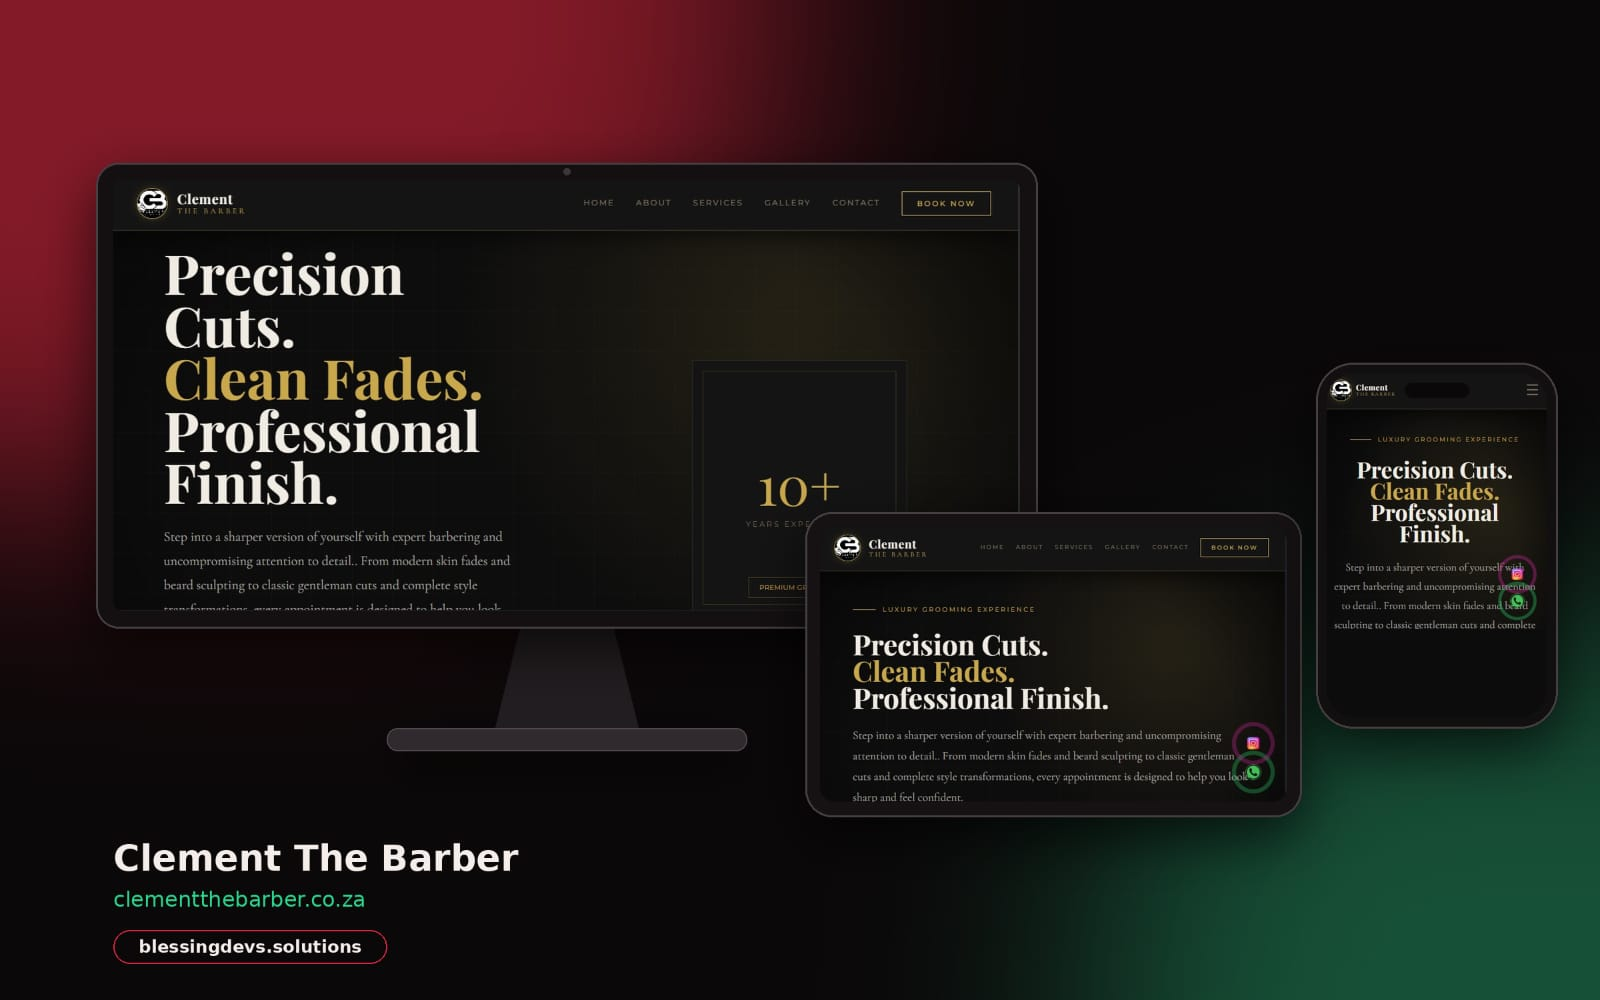
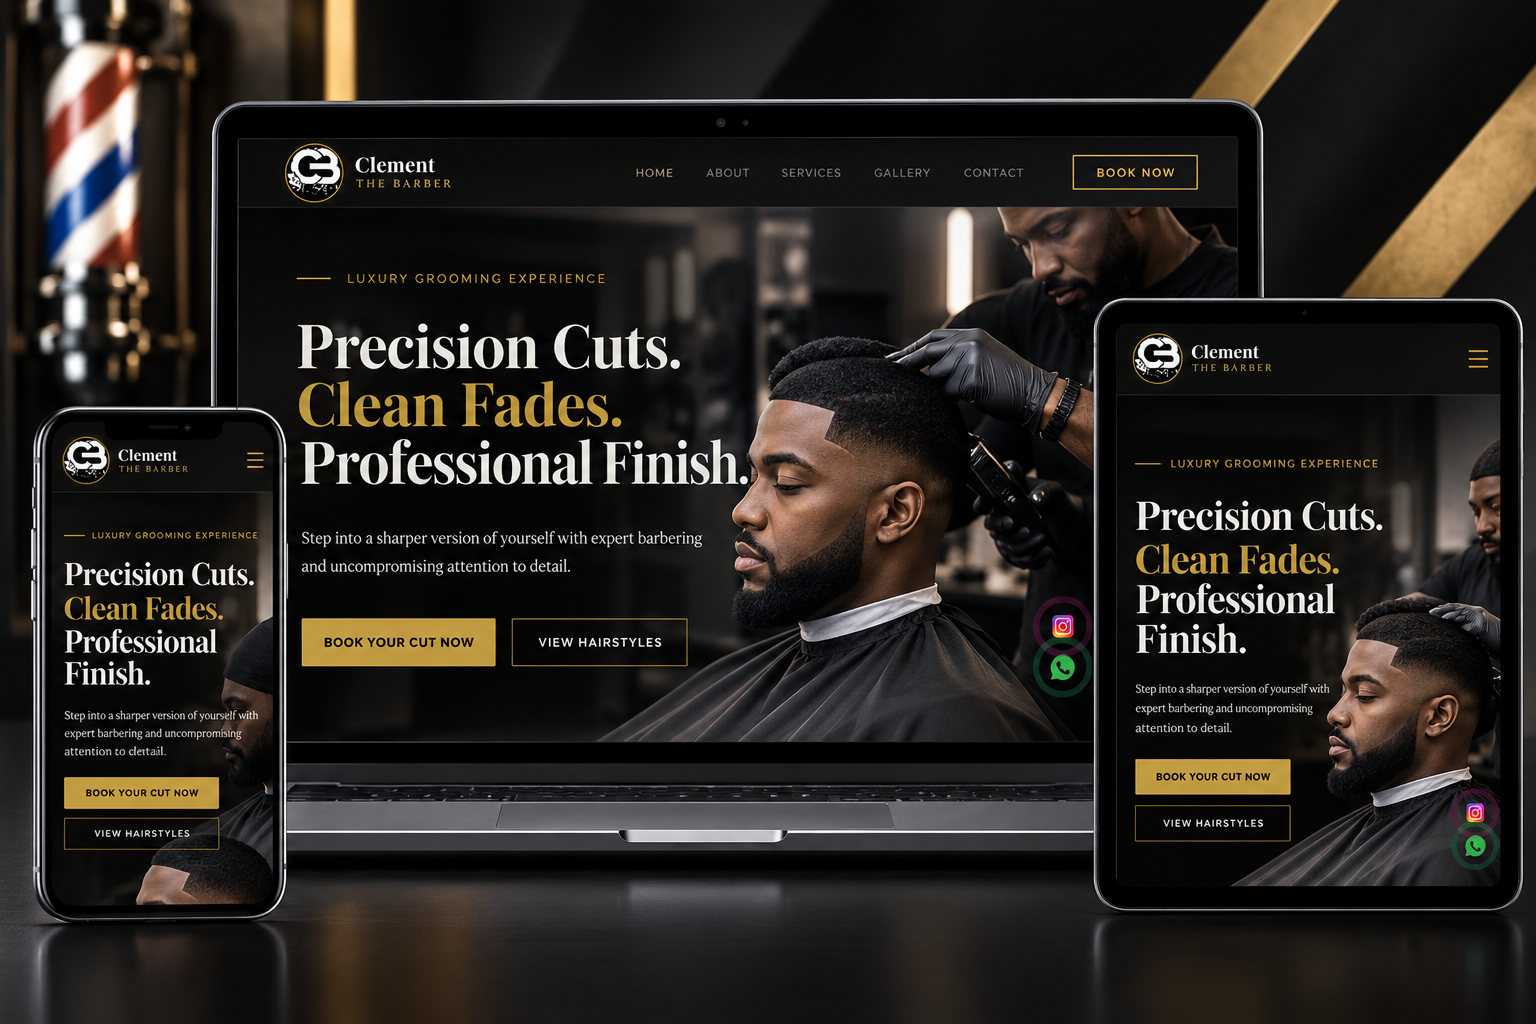
Refactor code structure for improved readability and maintainability

diff --git a/script.js b/script.js
@@ -14,19 +14,31 @@ const CONFIG = {
 
 const PROJECTS = [
   { name: "Concepto Ink Tattoos", domain: "concepto-ink.com", category: "Tattoo", note: "Tattoo studio website", image: "images/work/concepto-ink-tattoos.jpeg" },
+
   { name: "Rabie Ridge Tattoos", domain: "rabi-ridge-tattoos.co.za", category: "Tattoo", note: "Tattoo studio website", image: "images/work/rabie-ridge-tattoos.jpeg" },
+
   { name: "Gin Tattoos", domain: "gin-tattoos.co.za", category: "Tattoo", note: "Tattoo studio website", image: "images/work/gin-tattoos.jpeg" },
-  { name: "Tribal Tattoo Garden", domain: "tribal-tattoo-garden.online", category: "Tattoo", note: "Tattoo studio website", image: "images/work/tribal-tattoo-garden.jpeg" },
+
+  { name: "Tribal Tattoo Garden", domain: "https://tribal-tattoo-garden.vercel.app/", category: "Tattoo", note: "Tattoo studio website", image: "images/work/tribal-tattoo-garden.jpeg" },
+
   { name: "Beauty Spa Potch", domain: "beautyspapotch.co.za", category: "Spa", note: "Luxury spa with service tabs and booking", image: "images/work/beauty-spa-potch.jpeg" },
+
   { name: "Glow With IV", domain: "glowwithiv.co.za", category: "Spa", note: "Spa and wellness website", image: "images/work/glow-with-iv.jpeg" },
+
   { name: "Women in Wellness Spa", domain: "womeninwellspa.co.za", category: "Spa", note: "Spa and wellness website", image: "images/work/women-in-wellness-spa.jpeg" },
-  { name: "Grace View Preschool", domain: "graceviewpreschool.online", category: "School", note: "Preschool website for parents", image: "images/work/grace-view-preschool.jpeg" },
-  { name: "Decentral Projects", domain: "decentralprojects.online", category: "Construction", note: "Construction company website", image: "images/work/decentral-projects.jpeg" },
+
+  { name: "Grace View Preschool", domain: "https://grace-view.vercel.app/", category: "School", note: "Preschool website for parents", image: "images/work/grace-view-preschool.jpeg" },
+
+  { name: "Decentral Projects", domain: "https://desentral-projects.vercel.app/", category: "Construction", note: "Construction company website", image: "images/work/decentral-projects.jpeg" },
+
   { name: "Clement The Barber", domain: "clementthebarber.co.za", category: "Barber", note: "Barbershop website", image: "images/work/clement-the-barber.jpeg" },
+  
   { name: "The Shift Barber Shop", domain: "theshiftbarbershop.co.za", category: "Barber", note: "Barbershop website", image: "images/work/shift.jpeg" },
   { name: "Eco Spa Wellness", domain: "eco-spa-eight.vercel.app", category: "Spa", note: "Spa website", image: "images/work/eco-spa.jpeg" },
   { name: "ThembeLihle Pre School", domain: "thembelihle-daycare.vercel.app", category: "School", note: "Preschool website for parents", image: "images/work/thembe.jpeg" },
-  { name: "Mc Squared", domain: "mc2-pre-school.vercel.app", category: "School", note: "Preschool website for parents", image: "images/work/mc2.jpeg" }
+  { name: "Mc Squared", domain: "mc2-pre-school.vercel.app", category: "School", note: "Preschool website for parents", image: "images/work/mc2.jpeg" },
+  { name: "Get Fit for life", domain: "get-fit-for-life.vercel.app", category: "Gym", note: "Gym website", image: "images/work/get-fit-for-life.jpeg" },
+  { name: "Mamaropene Driving School", domain: "mamaropene-ds.vercel.app", category: "Driving School", note: "Driving School company website", image: "images/work/mamaropene-driving-school.jpeg" }
 ];
 
 const SERVICES = [
